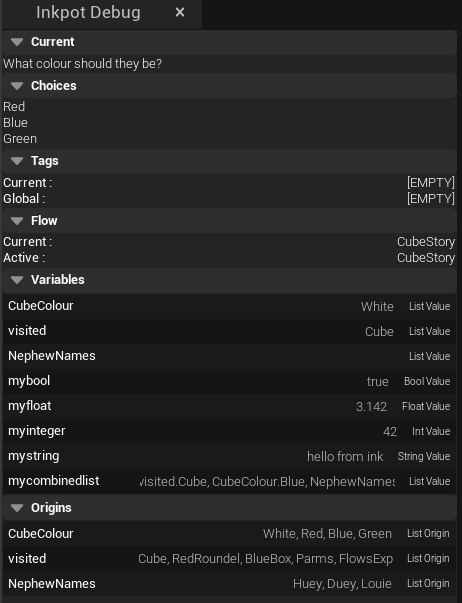
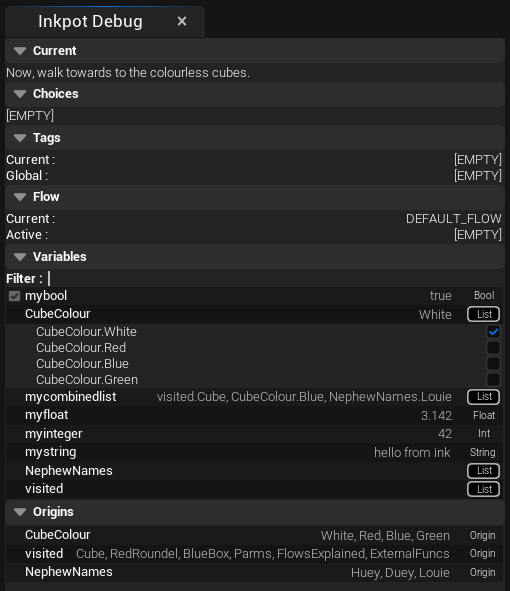
updated documentattion

diff --git a/README.md b/README.md
@@ -2,7 +2,7 @@
 Small demo project in Unreal showing how to use the Inkpot plugin for Unreal Engine created by [The Chinese Room](https://www.thechineseroom.co.uk/).<br><br>
 Inkpot is a wrapper for the scripting language **Ink** developed by [Inkle Studios](https://www.inklestudios.com/ink/)<br>
 See the [Inkpot github](https://github.com/The-Chinese-Room/Inkpot) for more info on the Inkpot plugin itself.<br><br>
-This project works with Unreal Engine version 5.4 or later.<br>
+This project works with Unreal Engine version 5.6 or later.<br>
 
 ---
 
@@ -348,18 +348,13 @@ This can be turned off by settings and CVars.
 
 ---
 
-## The Blotter ( Inkpot Debug )
-The Blotter is an Unreal editor utility that can be used to view and set values whilst your story is running in the Unreal Editor.<br>
+## Inkpot Debug
+There are two debug tools in developement, *the blotter* and *the outliner*.<br>
+The Blotter allows you to view and set values whilst your story is running in the Unreal Editor.<br>
+The Outliner currently only allows you to see the overal structure of your story.<br>
+![StartBlotterMenu](Documentation/StartBlotter.png)
 
-### Running the Blotter
-The blotter can be found in the content folder of the Inkpot plugin.<br>
-To see this in the content browser, make sure you have *Show Plugin Content* checked in the folder settings.<br><br>
-![ShowPluginContent](Documentation/ShowPluginContent.png)
-
-To run it, right click on *Inkpot Debug* and select *Run Editor Utility Widget*.<br><br>
-![RunEditorUtility](Documentation/RunEditorUtility.png)
-
-You should see this. <br><br>
+### The Blotter
 ![BlotterScreen](Documentation/BlotterScreen.png)
 
 ### Blotter Sections 
@@ -373,10 +368,13 @@ lists current and global tags if any.<br><br>
 * **Flow**<br>
 Shows current, and all other active flow names.<br><br>
 * **Variables**<br>
-Shows a list of all variables defined.<br> 
-Bools, ints, floats and strings can be edited directly.<br>
+Shows a list of all variables defined.<br><br>  
+Bools, ints, floats and strings can be edited directly.<br><br> 
 List types require that the item is defined in an origin, ie a LIST declaration within the ink script.<br>
-When adding items from other lists, prefix the item name with the origin name of the other list.<br><br>
+When adding items from other lists, prefix the item name with the origin name of the other list.<br>
+Lists can be expanded inline and set using the check the values you want to set in the list.<br><br> 
+Variables can be filtered based on their name, by using the filter field at the top.<br><br> 
+Variables can be pinned so that they appear at the top of the list for when you have a lot variables.<br><br> 
 * **Origins**<br>
 Shows all of the list origins that are present in the current story. <br>
 A list origin defines the items that can be present in a list variable.<br>
@@ -384,15 +382,27 @@ A LIST declaration within an ink script declares both the origin and the variabl
 
 The blotter will update any time a continue happens or a variable is changed within the Ink runtime.<br>
 You should therefore make sure that your game is in an inactive state before editing the values of variables.<br>
-( the next inkpot update will likely feature some form of pause control )
+
+### The Outliner
+![OutlinerScreen](Documentation/Outliner.png)
+Currenly only shows the structure of the current story. 
 
 ---
 
-## Settings and CVars
-As of 0.4.20 Inkpot has settings to control its operation.
-These can be found in the Plugins->Inkpot section of Project Settings.
+## Settings
+These can be found in the Plugins->Inkpot section of Project Settings.<br>
+![ProjectSettings](Documentation/ProjectSettings.png)
+### Story factory class
+Advanced use, most of the time just set this to InkpotStoryFactory.<br>
 
-![SettingsAndCVars](Documentation/SettingsAndCVars.png)
+
+## Preferences and CVars
+These can be found in the Plugins->Inkpot section of Editor Preferences.<br>
+![EditorPreferences](Documentation/EditorPreferences.png)
+
+### Autogenerate Gameplay Tags 
+Generates a gameplay tag table for the ink source whenever it is imported.<br>
+For more info on gameplay tags, see below. <br>
 
 ### Debug Log 
 Turns debug log on or off.<br> 
@@ -412,6 +422,68 @@ CVar Inkpot.ReplayIfReloaded<br>
 Default is false.<br>
 
 ---
+
+## Gameplay Tag support
+New in version 1.20.21 Inkpot has GameplayTag support.<br>
+
+### What are Gameplay Tags
+Gameplay Tags are a user defined hierarchical labelling system used extensively within Unreal for identifying and referencing objects across systems.<br>
+They are defined once and can never be changed, reducing silly that can be introduced by mistyping the wrong string say into a blueprint node.<br>
+Gameplay Tags can be combined in GameplayTagContainers in the same way Ink List entries can be combined.<br>
+More info from Epic here.<br>
+[Using gameplay tags](https://dev.epicgames.com/documentation/en-us/unreal-engine/using-gameplay-tags-in-unreal-engine)<br>
+
+### How are they used in Inkpot
+A set of Gameplay Tags is created containing tags for all paths, variables, and list origin items within the Ink source file.<br> 
+Ink Lists can then be freely converted to GameplayTagContainers and back.<br>
+Additionally, all functions where a string would be used to look up a variable or path now have a GameplayTag variant, GT for short.<br>
+
+### Creating a Gameplay Tag Table
+Right click on any previously imported Ink story asset, and select *Asset Actions* -> *Create Inkpot Tags from Story Assets*<br>
+![CreateTags](Documentation/CreateTags.png)
+A new asset will be created containing all the knot & stitch paths, variables, and list origin items defined in the story.<br>
+![TagCreated](Documentation/TagCreated.png)
+Double click to see the detail of the tag table.<br>
+![TagDetail](Documentation/TagDetail.png)
+
+### Hooking up the GameplayTag Table
+Now that you have your gameplay tag table, it needs to be added to the project as an additional source of gameplay tags.<br>
+Open up the project settings, *Edit* -> *Project Settings*.<br>
+![TagProjectSettings](Documentation/TagProjectSettings.png)
+In the *Project* -> *Gameplay Tags* section, add the new GameplayTag table to the *Gameplay Tag Table List*.
+
+### Ink Lists and Gameplay Tags
+Ink lists can now be set and queried by gameplay tags.<br>
+![TagsAndLists](Documentation/TagsAndLists.png)
+Lists can be created from a single tag or a list of tags.
+
+	// Creates an Inkpot List from a gameplay tag.
+	FInkpotList MakeInkpotListFromGameplayTag(UInkpotStory *Story, FGameplayTag Tag);
+
+	// Creates a gameplay tag from an inkpot list.
+	void ToGameplayTag(const FInkpotList &Value, FGameplayTag &ReturnValue);
+
+	// Creates an Inkpot List from a gameplay tag collection.
+	FInkpotList MakeInkpotListFromGameplayTags(UInkpotStory *Story, FGameplayTagContainer Tags);
+
+	// Creates a gameplay tag from an inkpot list.
+	void ToGameplayTags(const FInkpotList &Value, FGameplayTagContainer &ReturnValue);
+
+	// Returns true if the list contains an item matching the given Gameplay Tag.
+	bool ContainsTag(const FInkpotList &Source, FGameplayTag Tag);
+	
+### Gameplay Tags story API, GT Functions
+The InkpotStory class has been updated with support for all of the functions using strings to lookup paths and variables.<br>
+These are the GT functions, all are functionalty identical to the previous string variables.<br>
+Type *GT* to find these quickly in the context menu for Inkpot menus in the Blueprint editor.<br>
+![TagsGTFunctions](Documentation/TagsGTFunctions.png)
+The new Blueprint nodes will allow you to select the path and variables you need from a drop down list. 
+![TagSelecting](Documentation/TagSelecting.png)
+See InkpotStory.h for all the new GT function definitions.<br>
+	
+
+
+--- 
 
 # Testing InkPlusPlus
 We have 180 active tests in Inkpot that test the implementaion of the InkPlusPlus module.<br>
